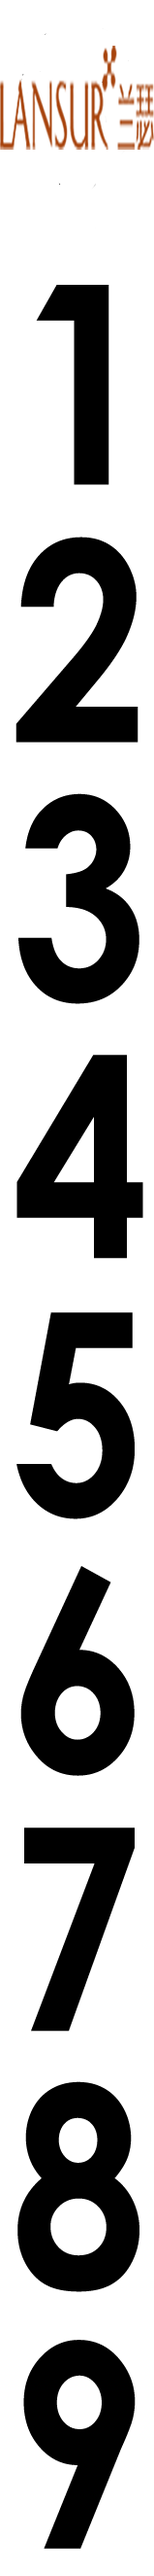
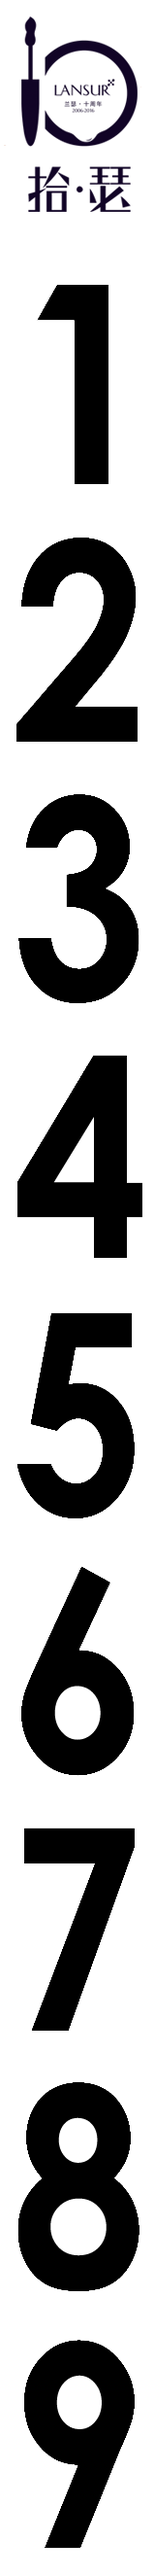
修改滚动页面LOGO,CUID判定算法，导出中奖信息路径问题

diff --git a/app/Http/Controllers/IndexController.php b/app/Http/Controllers/IndexController.php
@@ -25,11 +25,15 @@ class IndexController extends Controller
         if(empty($_SESSION['wechat_user'])){
             return redirect('weixin');
         }
+        //判断cuid是否为合法格式算法
+  		$key='123';
+  		$decuid = $this->decrypt($cuid, $key);  
+  		is_numeric($decuid) or die("<script>alert('非法CUID!')</script>");
         //判断cuid是否存在数据库，存在则不用在摇奖
-        $estimate_cuid=Cuid::where('cuid','=',$cuid)->get()->toArray();
+        $estimate_cuid=Cuid::where('cuid','=',$decuid)->get()->toArray();
         if(!empty($estimate_cuid))
 		{
-  			return redirect('./Prize/CUID='.$cuid);
+  			return "<script>alert('该链接已抽奖过')</script>";
   		}
   		else{
   			return view('rolling')->with('cuid',$cuid);
@@ -45,30 +49,35 @@ class IndexController extends Controller
         if(empty($_SESSION['wechat_user'])){
             return redirect('weixin');
         }
+        //判断cuid是否为合法格式算法
+  		$key='123';
+  		$decuid = $this->decrypt($cuid, $key);  
+  		is_numeric($decuid) or die("<script>alert('非法访问!')</script>");
 		//判断cuid是否存在数据库，存在则不能再抽奖
-		$estimate_cuid=Cuid::where('cuid','=',$cuid)->get()->toArray();
+		$estimate_cuid=Cuid::where('cuid','=',$decuid)->get()->toArray();
 		if(!empty($estimate_cuid))
 		{
 			// echo "您已抽过奖";
 			// print_r($estimate_cuid);
 			// $luckdraw
-			if($estimate_cuid[0]['category_id']==1)
-			{
-				$luckdraw=SettingLink::find($estimate_cuid[0]['aid'])->toArray();
-			}
-			elseif ($estimate_cuid[0]['category_id']==2) {
-				$luckdraw=SettingCode::find($estimate_cuid[0]['aid'])->toArray();
-				$code=Code::where('cuid','=',$cuid)->get()->toArray();
-				$luckdraw['code']=$code[0]['code'];
-			}
-			else {
-				$luckdraw=SettingThing::find($estimate_cuid[0]['aid'])->toArray();
-			}
+			// if($estimate_cuid[0]['category_id']==1)
+			// {
+			// 	$luckdraw=SettingLink::find($estimate_cuid[0]['aid'])->toArray();
+			// }
+			// elseif ($estimate_cuid[0]['category_id']==2) {
+			// 	$luckdraw=SettingCode::find($estimate_cuid[0]['aid'])->toArray();
+			// 	$code=Code::where('cuid','=',$cuid)->get()->toArray();
+			// 	$luckdraw['code']=$code[0]['code'];
+			// }
+			// else {
+			// 	$luckdraw=SettingThing::find($estimate_cuid[0]['aid'])->toArray();
+			// }
+			return "<script>alert('该链接已抽奖过')</script>";
 
-			
 
 		}
 		else{
+			$cuid=$decuid;
 			//进行抽奖
 			$luckdraw=$this->getaward($cuid);
 			//将cuid,奖品的category_id,id录入数据表cuids
@@ -108,13 +117,13 @@ class IndexController extends Controller
 			$name_rands=$this->randaward($name_arr);
 		}
 
-		return view('getPrize',['luckdraw'=>$luckdraw,'name_rands'=>$name_rands,'cuid'=>$cuid]); 
+		return view('getPrize',['luckdraw'=>$luckdraw,'name_rands'=>$name_rands,'cuid'=>$cuid]);
 		// print_r($name_rand);
 
 	}
 
 	//抽奖算法,获得奖品
-	public function getaward($cuid){	   
+	public function getaward($cuid){
 	//取出概率大于0的奖品类
     $award_rate=Category::where('award_rate','>','0')->get()->toArray();
     //奖品概率算法
@@ -132,10 +141,10 @@ class IndexController extends Controller
     if($a[mt_rand(1,$rate_all)]=='link')
     {
     	$award=SettingLink::where('weight','>','0')->get()->toArray();
-    
+
     	// 权重抽取算法
     	$arr=array(0);
-    	$all=0;	
+    	$all=0;
 	    for($i=0;$i<count($award);$i++)
 	    {
 	    	$c[$i]=array_fill(0,$award[$i]['weight'] , $award[$i]['id']);
@@ -147,7 +156,7 @@ class IndexController extends Controller
 	   	//查询该id奖品信息
 	   	$luckdraw=SettingLink::find($luck_id)->toArray();
 
-		
+
     }
     	//抽到领取码
     else if($a[mt_rand(1,$rate_all)]=='code')
@@ -158,7 +167,7 @@ class IndexController extends Controller
     	// print_r($award);
     	// 权重抽取算法
 
-    	$arr=array(0);	
+    	$arr=array(0);
     	$all=0;
 	    for($i=0;$i<count($award);$i++)
 	    {
@@ -174,7 +183,7 @@ class IndexController extends Controller
 	   	$code=Code::where('cid','=',$luck_id)->where('status','=','1')->take(1)->get()->toArray();
 	   	//传给奖品信息
 	   	$luckdraw['code']=$code[0]['code'];
-	 
+
 	   	//把领取码子表status置0
 	   	$code_status=Code::find($code[0]['id']);
 	   	$code_status->status=0;
@@ -199,11 +208,11 @@ class IndexController extends Controller
     }
     	//抽到实物类
     else
-    {	
+    {
     	//查询所有权重大于0的实物奖项
     	$award=SettingThing::where('weight','>','0')->get()->toArray();
     	// 权重抽取算法
-    	$arr=array(0);	
+    	$arr=array(0);
     	$all=0;
 	    for($i=0;$i<count($award);$i++)
 	    {
@@ -217,7 +226,7 @@ class IndexController extends Controller
 	   	$luckdraw=SettingThing::find($luck_id);
 	   	$luckdraw->amount--;
 	   	$luckdraw->save();
-	  
+
 	   	//如果实物数量为0那么将该权重置0
 	   	if($luckdraw->amount==0)
 	   	{
@@ -241,7 +250,7 @@ class IndexController extends Controller
     	//判断奖品数量是否大于三，大于三则随机抽取，小于或等于三则返回
     	$p=count($name_arr)-3;
 		if($p>0)
-		{	
+		{
 			$rand=array_rand($name_arr,3);
 			$name_rand[0]=$name_arr[$rand[0]];
 			$name_rand[1]=$name_arr[$rand[1]];
@@ -267,9 +276,9 @@ class IndexController extends Controller
     	$award_realname = $input['award_realname'];
         $award_phone    = $input['award_phone'];
         $award_address  = $input['award_address'];
-        $awarduser=AwardUsers::where('cuid','=',$cuid)->update(['award_realname'=>$award_realname,      'award_phone'=>$award_phone,'award_address'=>$award_address]); 
+        $awarduser=AwardUsers::where('cuid','=',$cuid)->update(['award_realname'=>$award_realname,      'award_phone'=>$award_phone,'award_address'=>$award_address]);
 
-        return redirect('/Prize/CUID='.$cuid);
+        return "<script>alert('登记成功')</script>";
     }
     public function prizeinfo(){
 
@@ -286,5 +295,37 @@ class IndexController extends Controller
         return view('prizeInfo',['prizeinfo'=>$prizeinfo]);
 
     }
+    //解密算法
+    private function decrypt($data, $key) {  
+	    $key = md5($key);  
+	    $x = 0;  
+	    $data = base64_decode($data);  
+	    $len = strlen($data);  
+	    $l = strlen($key); 
+	    $char=null; 
+	    $str=null;
+	    for ($i = 0; $i < $len; $i++)  
+	    {  
+	        if ($x == $l)   
+	        {  
+	            $x = 0;  
+	        }  
+	        $char .= substr($key, $x, 1);  
+	        $x++;  
+	    }  
+	    for ($i = 0; $i < $len; $i++)  
+	    {  
+	        if (ord(substr($data, $i, 1)) < ord(substr($char, $i, 1)))  
+	        {  
+	            $str .= chr((ord(substr($data, $i, 1)) + 256) - ord(substr($char, $i, 1)));  
+	        }  
+	        else  
+	        {  
+	            $str .= chr(ord(substr($data, $i, 1)) - ord(substr($char, $i, 1)));  
+	        }  
+	    }  
+	    return $str;  
+	}  
+
 
 }

diff --git a/resources/views/queryPrize.blade.php b/resources/views/queryPrize.blade.php
@@ -35,7 +35,7 @@
               </div>
             </div>
             <button type="submit" class="btn btn-default">搜索</button>
-            <a href="export" role="button" class="btn btn-normal btn-info">导出实物中奖信息</a>
+            <a href="export" role="button" class="btn btn-normal btn-info">导出中奖信息</a>
           </form>
         </div>
 

diff --git a/resources/views/rolling.blade.php b/resources/views/rolling.blade.php
@@ -20,7 +20,7 @@ html,body{margin:0;padding:0;overflow:hidden;background:#fff;}
 </head>
 <body>
 <br />
-<center><img src="{{asset('img/logo.png')}}" width="300px" height="120px" alt="" /></center>
+<center><img src="{{asset('img/logo.jpg')}}" width="120px" alt="" /></center>
 <br />
 <br />
 <div class="main_bg">

diff --git a/app/Http/routes.php b/app/Http/routes.php
@@ -50,7 +50,7 @@ Route::group(['middleware' => 'login'], function()
 
     //搜索
     Route::post('admin/search', 'SetprizeController@searchaward');
-    //导出实物信息
+    //导出所有信息
     Route::get('admin/export', 'SetprizeController@export');
 
     //修改密码
